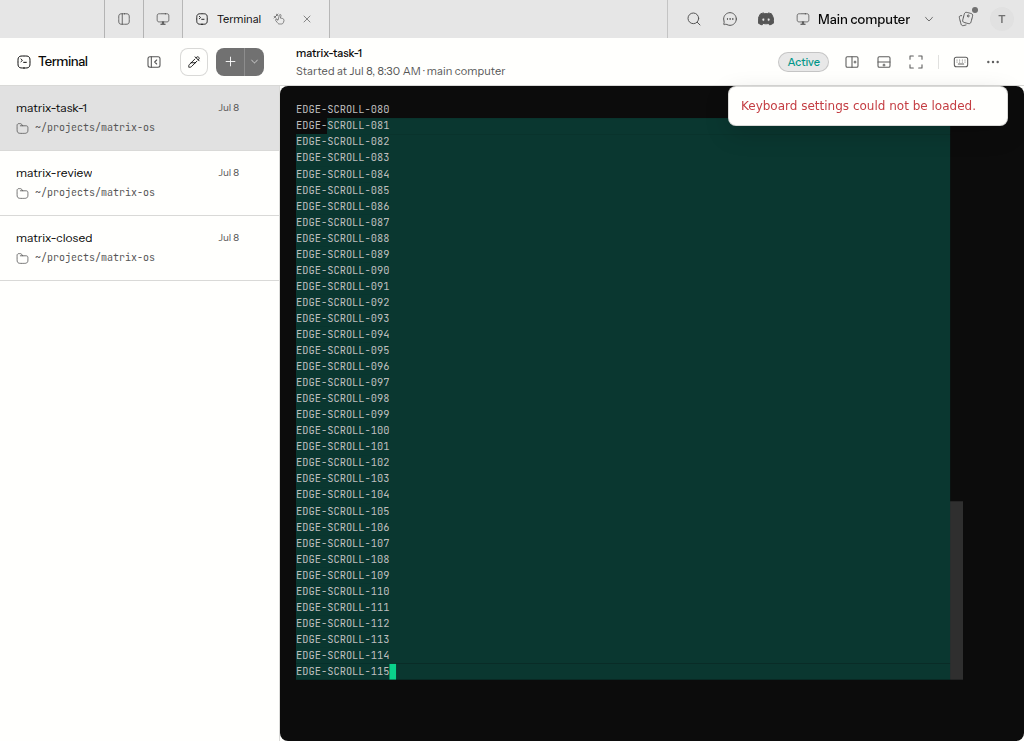
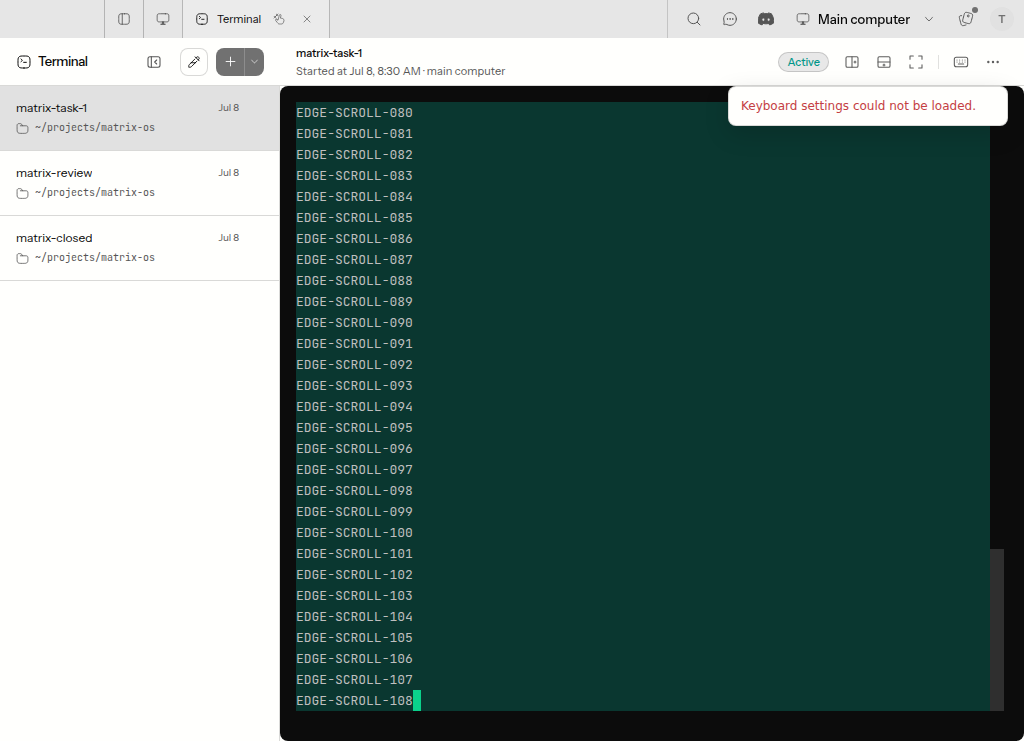
fix(terminal): keep fitted grid stable across output batches

Changed region(s): [[0.2812, 0.1242, 1.0, 0.9622]]

diff --git a/packages/ui/src/terminal/terminal-grid-presentation.ts b/packages/ui/src/terminal/terminal-grid-presentation.ts
@@ -59,6 +59,7 @@ export function createTerminalGridPresentation(options: GridPresentationOptions)
   let restoreStyle: Partial<CSSStyleDeclaration> | null = null;
   let previousPan: { top: number; left: number } | null = null;
   let presentationScale = 1;
+  let settledLayout: { metrics: number[]; layout: ReturnType<typeof computeSoftGridLayout> } | null = null;
   let outputSubscription: { dispose(): void } | undefined;
 
   const onWheel = (event: WheelEvent & { matrixGridCorrected?: boolean }) => {
@@ -101,14 +102,20 @@ export function createTerminalGridPresentation(options: GridPresentationOptions)
     if (viewportWidth <= 0 || viewportHeight <= 0) return;
     // xterm reserves this gutter beside its screen for native scrollback.
     const gutter = terminal.options.scrollback === 0 ? 0 : terminal.options.overviewRuler?.width || 14;
-    const layout = computeSoftGridLayout({
-      viewportWidth, viewportHeight,
-      gridWidth: width * configured / fontSize + gutter,
-      gridHeight: height * configured / fontSize,
-      configuredFontSize: configured,
-      minimumReadableFontSize: 10,
-      devicePixelRatio: window.devicePixelRatio,
-    });
+    const metrics = [viewportWidth, viewportHeight, width, height, fontSize, configured, gutter, window.devicePixelRatio];
+    // Cell metrics are quantized: extrapolating the configured font from the
+    // last fitted font can alternate between two sizes on every output batch.
+    // Reuse the fitted result until the viewport, grid, or font metrics change.
+    const layout = settledLayout?.metrics.every((value, index) => value === metrics[index])
+      ? settledLayout.layout
+      : computeSoftGridLayout({
+        viewportWidth, viewportHeight,
+        gridWidth: width * configured / fontSize + gutter,
+        gridHeight: height * configured / fontSize,
+        configuredFontSize: configured,
+        minimumReadableFontSize: 10,
+        devicePixelRatio: window.devicePixelRatio,
+      });
     const buffer = terminal.buffer?.active;
     const live = buffer && buffer.viewportY >= buffer.baseY;
     const followY = live && (!previousPan || Math.abs(host.scrollTop - previousPan.top) <= 1);
@@ -137,6 +144,10 @@ export function createTerminalGridPresentation(options: GridPresentationOptions)
     // by the renderer, so multiplying the old size alone can clip a final row.
     const gridWidth = dimension(screen, "width") + gutter;
     const gridHeight = dimension(screen, "height");
+    settledLayout = {
+      metrics: [viewportWidth, viewportHeight, gridWidth - gutter, gridHeight, layout.fontSize, configured, gutter, window.devicePixelRatio],
+      layout,
+    };
     const scale = Math.min(layout.scale, Math.max(
       Math.min(1, viewportWidth / gridWidth, viewportHeight / gridHeight),
       Math.min(configured, 10) / layout.fontSize,
@@ -191,6 +202,7 @@ export function createTerminalGridPresentation(options: GridPresentationOptions)
     element = null;
     restoreStyle = null;
     previousPan = null;
+    settledLayout = null;
     host.style.overflowX = "hidden";
     host.style.overflowY = "hidden";
     options.onScale?.(1);

diff --git a/tests/ui/terminal-soft-grid.test.ts b/tests/ui/terminal-soft-grid.test.ts
@@ -63,6 +63,32 @@ describe("shared terminal grid presentation", () => {
     expect(host.scrollTop).toBe(20);
   });
 
+  it("keeps quantized font metrics stable across output-only layout passes", () => {
+    const { root, terminal, layout, presentation } = setup();
+    const screen = root.querySelector<HTMLElement>(".xterm-screen")!;
+    let fontSize = 13;
+    const measure = () => {
+      screen.style.width = `${63 * fontSize}px`;
+      // Real renderer cell heights are quantized, not proportional to font size.
+      screen.style.height = `${fontSize === 11 ? 612 : fontSize === 12 ? 720 : 756}px`;
+    };
+    terminal.options = {
+      get fontSize() { return fontSize; },
+      set fontSize(value) { fontSize = value; measure(); },
+    };
+    measure();
+    layout(714, 623);
+    const settled = { font: fontSize, transform: root.style.transform, height: root.parentElement!.style.height };
+    for (let output = 0; output < 4; output += 1) {
+      presentation.schedule();
+      flush();
+      expect({ font: fontSize, transform: root.style.transform, height: root.parentElement!.style.height })
+        .toEqual(settled);
+    }
+    layout(1_600, 900);
+    expect(fontSize).toBe(13);
+  });
+
   it("does not pull a reader out of xterm scrollback when the window shrinks", () => {
     const { host, terminal, layout } = setup();
     Object.defineProperty(terminal, "buffer", { value: {

diff --git a/docs/pr-evidence/terminal-soft-resize/README.md b/docs/pr-evidence/terminal-soft-resize/README.md
@@ -78,3 +78,10 @@ gateway; it does not claim live VPS transport coverage. The clipboard assertion
 requires the complete final output row before capturing the screenshot.
 The keyboard-settings warning visible in the stub-backed screenshot is outside
 this fixture's gateway contract; keyboard-settings loading is not validated here.
+
+A further exact-head repeat exposed a shared layout oscillation: rounded cell
+metrics at 11px and 12px caused output-only passes to alternate the displayed
+grid height. The presentation now reuses its settled layout while viewport,
+grid, and font metrics are unchanged; genuine resize/font changes still compute
+a new layout. A red/green regression reproduces those quantized metrics, checks
+repeated output passes, and verifies expansion restores the configured font.
